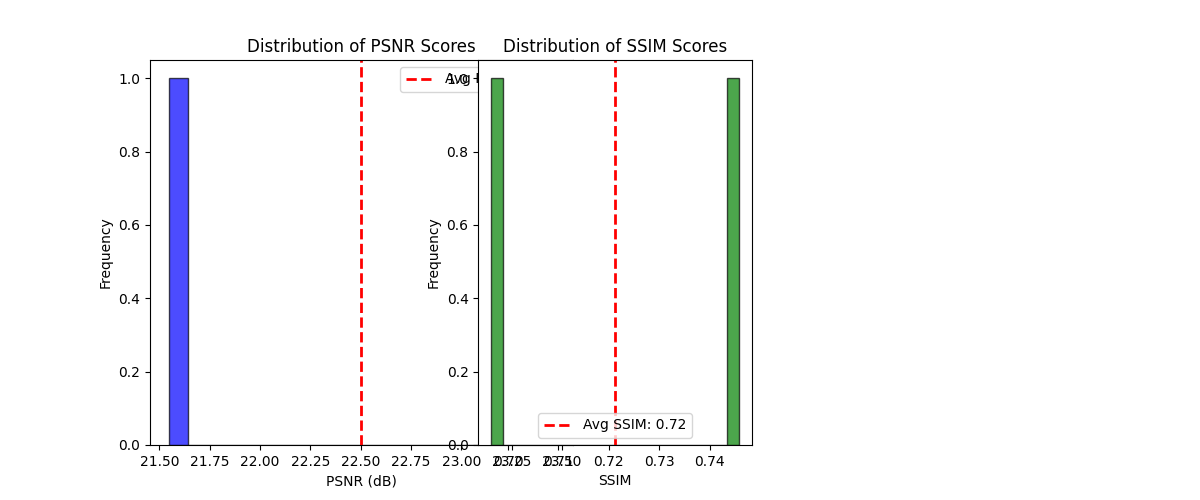
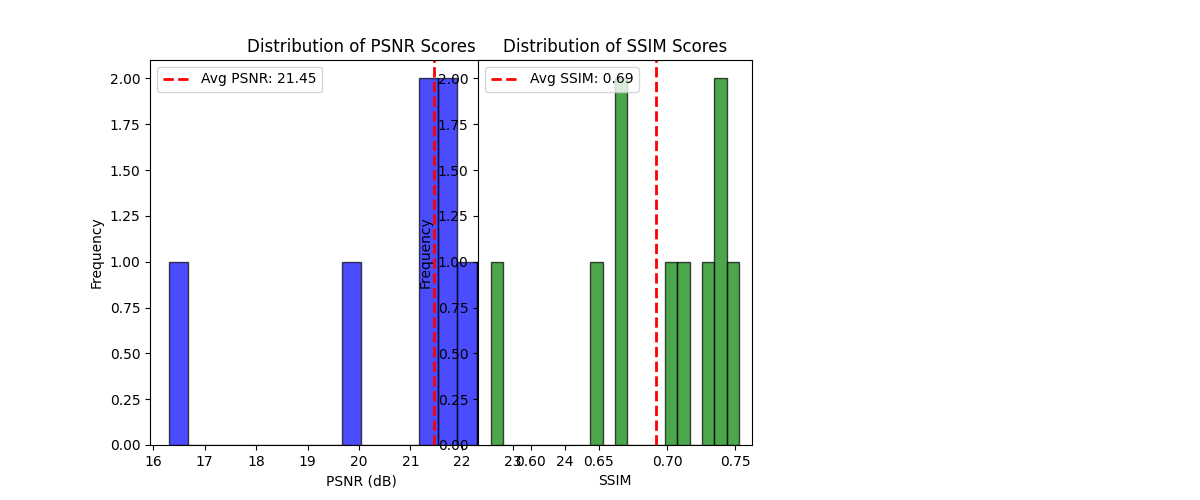
gaussian deblurring

diff --git a/src/pseudoInverse/operators.py b/src/pseudoInverse/operators.py
@@ -215,3 +215,126 @@ class GrayscaleOperator:
         
         rgb_reconstructed = y.repeat(1, 3, 1, 1)  # shape: (batch, 3, height, width)
         return rgb_reconstructed
+    
+
+import torch
+import torch.nn as nn
+import torch.nn.functional as F
+import numpy as np
+from scipy.ndimage import gaussian_filter
+
+class GaussianDeblurOperator:
+    """
+    Pseudoinverse operator for Gaussian deblurring tasks.
+    Applies a Gaussian blur in the forward pass and attempts to reverse it in the pseudoinverse.
+    """
+    def __init__(self, kernel_size=15, sigma=2.0, device='cuda'):
+        """
+        Initialize the Gaussian deblurring operator.
+        
+        Args:
+            kernel_size: Size of the Gaussian kernel (default: 15)
+            sigma: Standard deviation of the Gaussian kernel (default: 2.0)
+            device: Device to run computations on ('cuda' or 'cpu')
+        """
+        self.kernel_size = kernel_size
+        self.sigma = sigma
+        self.device = device
+        
+        # Create the Gaussian kernel
+        self.kernel = self._create_gaussian_kernel(kernel_size, sigma).to(device)
+        
+    def _create_gaussian_kernel(self, kernel_size, sigma):
+        """Create a 2D Gaussian kernel."""
+        # Create a 1D Gaussian kernel
+        x = np.linspace(-(kernel_size // 2), kernel_size // 2, kernel_size)
+        gauss_1d = np.exp(-0.5 * np.square(x) / np.square(sigma))
+        gauss_1d = gauss_1d / np.sum(gauss_1d)
+        
+        # Create a 2D Gaussian kernel
+        gauss_2d = np.outer(gauss_1d, gauss_1d)
+        gauss_2d = gauss_2d / np.sum(gauss_2d)
+        
+        # Convert to tensor with shape [1, 1, kernel_size, kernel_size]
+        return torch.FloatTensor(gauss_2d).unsqueeze(0).unsqueeze(0)
+    
+    def __call__(self, x):
+        return self.forward(x)
+    
+    def forward(self, x):
+        """
+        Forward operation h(x): sharp image to blurred image.
+        
+        Args:
+            x: Sharp image tensor [B, C, H, W]
+            
+        Returns:
+            Blurred image tensor [B, C, H, W]
+        """
+        B, C, H, W = x.shape
+        blurred = torch.zeros_like(x)
+        
+        # Apply Gaussian blur to each channel separately
+        for b in range(B):
+            for c in range(C):
+                # Extract channel and add batch dimension for conv2d
+                channel = x[b, c].unsqueeze(0).unsqueeze(0)
+                # Apply convolution with Gaussian kernel (padding='same' to maintain dimensions)
+                blurred_channel = F.conv2d(channel, self.kernel, padding=self.kernel_size//2)
+                blurred[b, c] = blurred_channel.squeeze()
+        
+        return blurred
+    
+    def pseudoinverse(self, y, deblur_strength=1.0):
+        """
+        Pseudoinverse operation h†(y): blurred image to sharp image estimation.
+        Uses a simple Wiener filter approach for deblurring.
+        """
+        B, C, H, W = y.shape
+        deblurred = torch.zeros_like(y)
+        
+        # Convert to frequency domain and apply Wiener filtering
+        for b in range(B):
+            for c in range(C):
+                # Extract channel and detach if needed
+                channel = y[b, c]
+                
+                # Use detach() before converting to numpy
+                channel_np = channel.detach().cpu().numpy()
+                kernel_np = self.kernel.squeeze().cpu().numpy()
+                
+                # Rest of the code remains the same...
+                padded_kernel = np.zeros((H, W))
+                kh, kw = kernel_np.shape
+                padded_kernel[:kh, :kw] = kernel_np
+                padded_kernel = np.roll(padded_kernel, -kh//2, axis=0)
+                padded_kernel = np.roll(padded_kernel, -kw//2, axis=1)
+                
+                # FFT of image and kernel
+                channel_fft = np.fft.fft2(channel_np)
+                kernel_fft = np.fft.fft2(padded_kernel)
+                
+                reg_param = 1.0 / deblur_strength
+                wiener_filter = np.conj(kernel_fft) / (np.abs(kernel_fft)**2 + reg_param)
+                
+                deblurred_fft = channel_fft * wiener_filter
+                deblurred_np = np.real(np.fft.ifft2(deblurred_fft))
+                
+                deblurred_np = np.clip(deblurred_np, 0.0, 1.0)
+                deblurred[b, c] = torch.from_numpy(deblurred_np).to(self.device)
+        
+        return deblurred
+    
+    def add_noise(self, y, noise_level=0.01):
+        """
+        Add Gaussian noise to the blurred image.
+        
+        Args:
+            y: Blurred image tensor [B, C, H, W]
+            noise_level: Standard deviation of the noise (default: 0.01)
+            
+        Returns:
+            Noisy blurred image tensor [B, C, H, W]
+        """
+        noise = torch.randn_like(y) * noise_level
+        return y + noise

diff --git a/src/pseudoInverse/algorithm5.py b/src/pseudoInverse/algorithm5.py
@@ -3,7 +3,7 @@ import torch
 from tqdm import tqdm
 from PIL import Image
 
-from pseudoInverse.operators import SuperResolutionPseudoinverseOperator, RotationOperator, IdentityOperator, GrayscaleOperator
+from pseudoInverse.operators import SuperResolutionPseudoinverseOperator, RotationOperator, IdentityOperator, GrayscaleOperator, GaussianDeblurOperator
 from pseudoInverse.utils import DiffusionModel
 
 from ddpm.model import DDPM
@@ -72,7 +72,7 @@ class PiGDM:
         x = self.initialize_xt(x0_estimate, alphas_cumprod_t)
         
         # Main sampling loop 
-        for i in tqdm(range(num_steps-1, -1, -1)):
+        for i in tqdm(range(num_steps-1, 0, -1)):
             t = timesteps[i]
             # s = timesteps[i-1]
             
@@ -86,7 +86,6 @@ class PiGDM:
             mut = (x - betas[t] * epsilon_theta / np.sqrt(1 - alphas_cumprod[t])) / np.sqrt(alphas[t])
             
 
-            
             # Calculate the guidance term g
             if noiseless:
                 if self.measurement_operator is None:
@@ -106,10 +105,12 @@ class PiGDM:
                 if self.H is None:
                     raise ValueError("measurement_matrix must be provided for noisy case")
                 sigma_t = betas[t] ** 0.5
-                r_t = ((sigma_t ** 2) / (1 + sigma_t ** 2)) ** 0.5
+                # r_t = ((sigma_t ** 2) / (1 + sigma_t ** 2)) ** 0.5
+                # r_t_2 = ((alphas[t] * alphas[t-1]) ** 0.5 / (1-alphas[t])) * r_t ** 2 
+                r_t_2 = (1-alphas_cumprod[t]) / alphas_cumprod[t]
 
                 HH_T = self.H @ self.H.T
-                noise_term = (sigma_y**2 / r_t**2) * torch.eye(HH_T.shape[0], device=HH_T.device, dtype=HH_T.dtype)
+                noise_term = (sigma_y**2 / r_t_2) * torch.eye(HH_T.shape[0], device=HH_T.device, dtype=HH_T.dtype)
                 inv_matrix = torch.linalg.solve(HH_T + noise_term, torch.eye(HH_T.shape[0], device=HH_T.device, dtype=HH_T.dtype))
                 
                 mat_x = ((y - self.H @ x_hat_t).detach() * ((inv_matrix @ self.H) @ x_hat_t)).sum()
@@ -118,14 +119,14 @@ class PiGDM:
             
             x = x.detach()
             # PiGDM update (last part of the algorithm)
-            x = (mut + np.sqrt(betas[t]) * z + torch.sqrt(alphas_cumprod[t]) * self.guidance_factor * g).detach()
+            x = (mut + np.sqrt(betas[t]) * z + self.eta * torch.sqrt(alphas_cumprod[t]) * self.guidance_factor * g).detach()
             
         return x
 
 
 if __name__ == "__main__":
     # CONFIGURATION
-    guidance_factor = 0.01
+    guidance_factor = 0.05
     num_steps = 1000
     
     image_name = "00014.png"
@@ -142,18 +143,21 @@ if __name__ == "__main__":
     # measurement_operator = SuperResolutionPseudoinverseOperator(mode="bicubic")
     # measurement_operator = IdentityOperator()
     # measurement_operator = RotationOperator(45)
-    measurement_operator = GrayscaleOperator()
-    measurement_matrix = torch.eye(256).to('cuda')
+    # measurement_operator = GrayscaleOperator()
+    measurement_operator = GaussianDeblurOperator(sigma=0.5)
+    # measurement_matrix = torch.eye(256).to('cuda')
     low_res_img = measurement_operator(tensor_img)
     
     low_res_img_show = measurement_operator.pseudoinverse(low_res_img)
+    low_res_img_show = measurement_operator.add_noise(low_res_img_show, sigma_y)
  
     # Intialize Model
     ddpm = DDPM()
     model = DiffusionModel(model=ddpm) 
 
     # Initialize sampler
-    pidgm_sampler = PiGDM(model, measurement_operator, measurement_matrix, guidance_factor=guidance_factor)
+    # pidgm_sampler = PiGDM(model, measurement_operator, measurement_matrix, guidance_factor=guidance_factor)
+    pidgm_sampler = PiGDM(model, measurement_operator, guidance_factor=guidance_factor)
 
     # Result
     high_res_img = pidgm_sampler.sample(low_res_img, num_steps, sigma_y, noiseless)
@@ -162,4 +166,4 @@ if __name__ == "__main__":
     print(f"Min: {high_res_img.min().item()}, Max: {high_res_img.max().item()}")
 
     # Save Image
-    save_pilimg(out, image_name)
+    save_pilimg(out, "new_" + image_name)

diff --git a/src/experiments/colorization.py b/src/experiments/colorization.py
@@ -1,13 +1,12 @@
 import os
+from torch.utils.data import DataLoader, Subset
 
 from pseudoInverse.algorithm4 import PiGDM, DiffusionModel
-from pseudoInverse.operators import SuperResolutionPseudoinverseOperator
+from pseudoInverse.operators import GrayscaleOperator
 
 from ddpm.model import DDPM
 
 from experiments.utils import evaluate_model, ImageDataset, plot_results
-
-from torch.utils.data import DataLoader, Subset
 
 if __name__ == "__main__":
     dataset_path = "ffhq256-1k-validation"
@@ -23,17 +22,17 @@ if __name__ == "__main__":
     test_loader_all = DataLoader(subset, batch_size=2, shuffle=False)
 
     # Create DataLoader
-    measurement_operator = SuperResolutionPseudoinverseOperator(mode="bicubic")
+    measurement_operator = GrayscaleOperator()
 
     # Intialize Model
     ddpm = DDPM()
     model = DiffusionModel(model=ddpm) 
 
-    guidance_factor = 0.05
+    guidance_factor = 0.1
     num_steps = 100
 
     # Initialize sampler
     pigdm_sampler = PiGDM(model, measurement_operator, guidance_factor=guidance_factor)
 
     results = evaluate_model(pigdm_sampler, test_loader_all, num_steps, sigma_y=None, noiseless=True, seed=None, device="cuda")
-    plot_results(results)
+    plot_results(results, save_path="results/coloriation/")

diff --git a/src/experiments/utils.py b/src/experiments/utils.py
@@ -114,7 +114,7 @@ def plot_results(results, save_path="results/super_resolution/"):
     plt.legend()
 
     # Histogram of SSIM values
-    plt.subplot(1, 3, 2)
+    plt.subplot(1, 2, 2)
     plt.hist(results["all_SSIM"], bins=20, color='green', alpha=0.7, edgecolor='black')
     plt.axvline(results["SSIM"], color='red', linestyle='dashed', linewidth=2, label=f'Avg SSIM: {results["SSIM"]:.2f}')
     plt.xlabel("SSIM")
